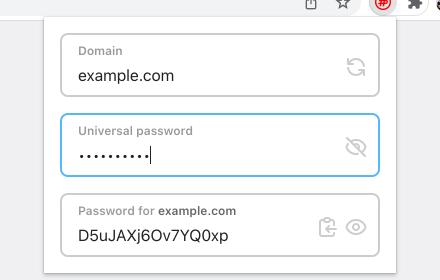
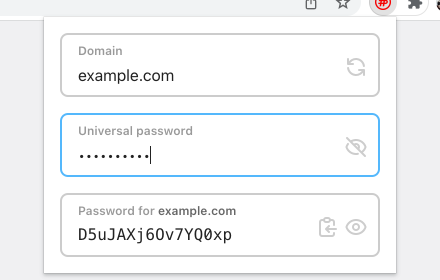
Use a monospace font for password fields that makes it easier to distinguish between `O`/`0` and `I`/`l`/`1`

Changed region(s): [[0.1773, 0.8, 0.5318, 0.8857]]

diff --git a/src/input.tsx b/src/input.tsx
@@ -7,6 +7,7 @@ const inputHeight = '28px';
 
 interface InputStyleArgs {
   disabled: boolean;
+  monospace: boolean;
   updating: boolean;
 }
 
@@ -52,6 +53,18 @@ const useStyles = createUseStyles({
     background: 'transparent',
     lineHeight: inputHeight,
     fontSize: '16px',
+    fontFamily: ({ monospace }: InputStyleArgs) =>
+      monospace
+        ? [
+            'ui-monospace',
+            'SFMono-Regular',
+            'SF Mono',
+            'Menlo',
+            'Consolas',
+            '"Liberation Mono"',
+            'monospace',
+          ]
+        : 'inherit',
     color: '#222222',
   },
   buttonContainer: {
@@ -76,6 +89,7 @@ const Input = React.forwardRef(
       disabled,
       hideValue,
       label,
+      monospace,
       onChange,
       placeholder,
       updating,
@@ -85,6 +99,7 @@ const Input = React.forwardRef(
       disabled: boolean;
       hideValue: boolean;
       label: React.ReactChild;
+      monospace: boolean;
       onChange: ((value: string) => void) | null;
       placeholder: string;
       updating: boolean;
@@ -92,7 +107,7 @@ const Input = React.forwardRef(
     },
     ref: React.ForwardedRef<HTMLInputElement>,
   ): React.ReactElement => {
-    const classes = useStyles({ disabled, updating });
+    const classes = useStyles({ disabled, monospace, updating });
     const newOnChange = useMemo(
       () =>
         (event: React.FormEvent<HTMLInputElement>): void => {

diff --git a/src/user-interface.tsx b/src/user-interface.tsx
@@ -166,6 +166,7 @@ const UserInterface = ({
         disabled={false}
         hideValue={false}
         label="Domain"
+        monospace={false}
         onChange={setDomain}
         placeholder="example.com"
         updating={false}
@@ -190,6 +191,7 @@ const UserInterface = ({
         disabled={false}
         hideValue={isUniversalPasswordHidden}
         label="Universal password"
+        monospace
         onChange={setUniversalPassword}
         placeholder=""
         ref={universalPasswordRef}
@@ -246,6 +248,7 @@ const UserInterface = ({
             </span>
           )
         }
+        monospace
         onChange={null}
         placeholder=""
         // eslint-disable-next-line @typescript-eslint/no-magic-numbers -- Any tasks in progress?

diff --git a/CHANGELOG.md b/CHANGELOG.md
@@ -6,6 +6,13 @@ The format is based on [Keep a Changelog](https://keepachangelog.com/en/1.0.0/),
 and this project adheres to
 [Semantic Versioning](https://semver.org/spec/v2.0.0.html).
 
+## [2.1.4] - 2022-02-06
+
+### Changed
+
+- The password fields now use a monospace font that makes it easier to
+  distinguish between `O`/`0` and `I`/`l`/`1`.
+
 ## [2.1.3] - 2022-02-06
 
 ### Changed
